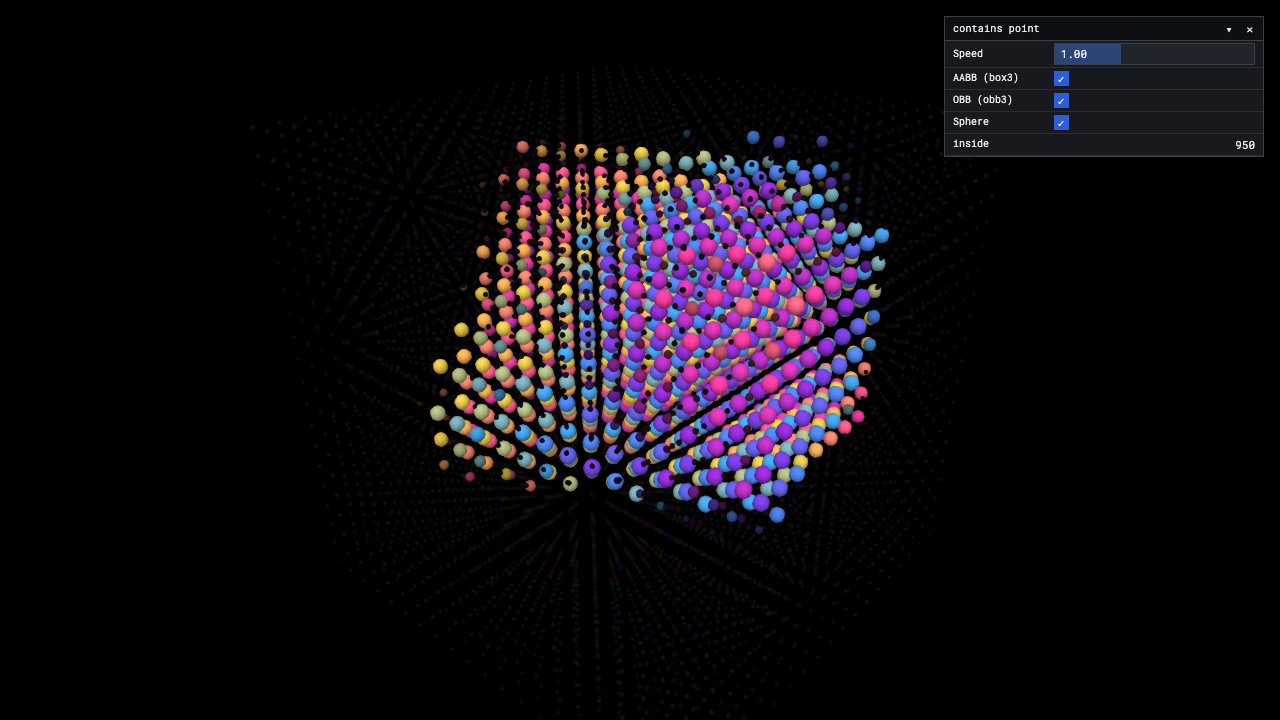
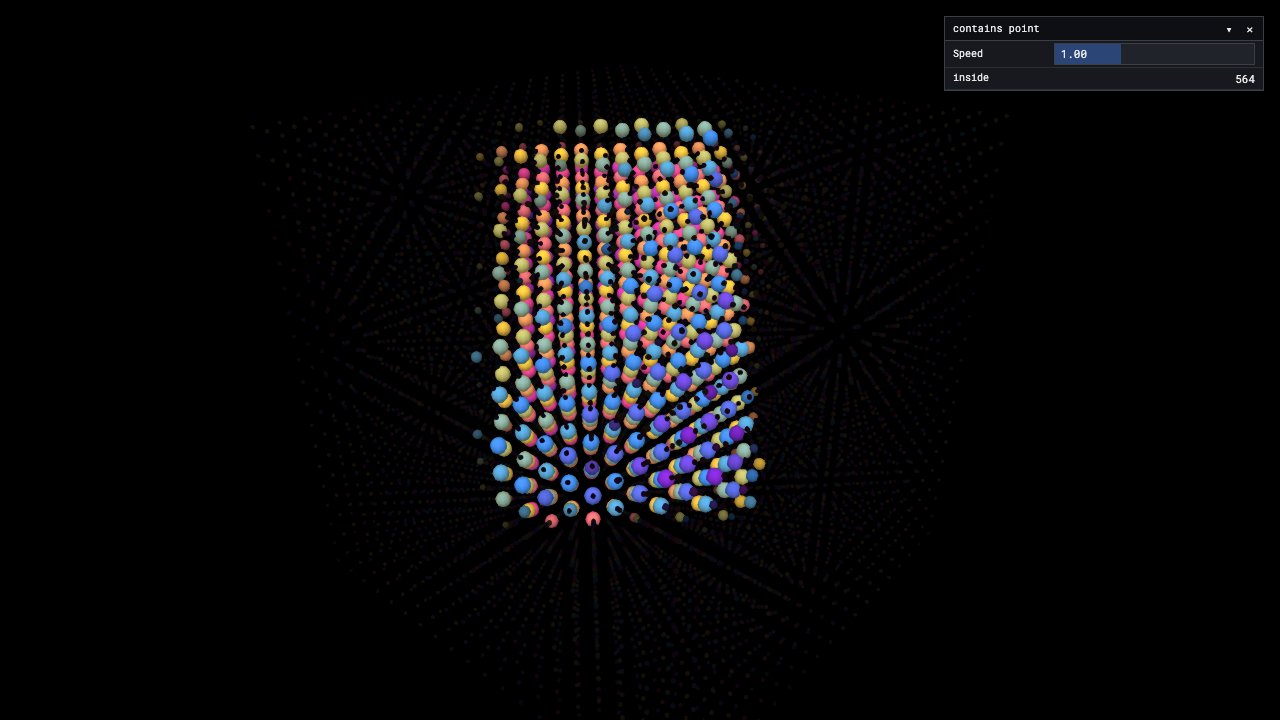
refactor(examples): focus contains-point on obb3 only

Changed region(s): [[0.3125, 0.1528, 0.7188, 0.7333], [0.7188, 0.0917, 1.0, 0.2444]]

diff --git a/examples/src/example-contains-point.ts b/examples/src/example-contains-point.ts
@@ -1,18 +1,17 @@
 import * as g from 'gpucat';
 import { d } from 'gpucat';
 import { mat3, quat, type Vec3 } from 'math';
-import { box3, type Box3, obb3, type OBB3, sphere, type Sphere } from 'math/shapes';
+import { obb3, type OBB3 } from 'math/shapes';
 import { createPanel } from './common/dash';
 import { rainbowRGB, time } from './common/rainbow';
 import { createRenderer } from './common/renderer';
 
-// A lattice of points, and three shapes from math/shapes drifting through it: an
-// axis-aligned box (box3), a spinning oriented box (obb3), and a pulsing sphere.
-// Every frame each point asks the shapes `containsPoint` — inside points glow the
-// flowing rainbow, outside points fade to a faint lattice. The solids are never
-// drawn; you see them purely as the region of lit points they carve out. The
-// oriented box is the one to watch: its containsPoint projects each point onto
-// the box's own rotated axes, so the glowing slab tumbles with it.
+// A lattice of points, and an oriented box (obb3) tumbling through it. Every
+// frame each point asks obb3.containsPoint — inside points glow the flowing
+// rainbow, outside points fade to a faint lattice. The box itself is never
+// drawn; you see it purely as the region of lit points it carves out.
+// obb3.containsPoint projects each point onto the box's own rotated axes and
+// compares against its half-extents, so the glowing slab tumbles with it.
 
 const N = 20; // points per axis
 const EXTENT = 3.0; // half-width of the lattice cube
@@ -111,24 +110,19 @@ points.count = COUNT;
 scene.add(points);
 scene.updateWorldMatrix();
 
-/* the three shapes (never drawn — only their containsPoint matters) */
+/* the oriented box (never drawn — only its containsPoint matters) */
 
-const aabb: Box3 = box3.create();
 const obb: OBB3 = obb3.create();
-obb.halfExtents = [1.9, 0.6, 1.9]; // a slab, so the rotation reads clearly
-const sph: Sphere = sphere.create();
+obb.halfExtents = [2.1, 0.8, 1.3]; // a distinct, non-cube box so the rotation reads clearly
 const spin = quat.create();
 const SPIN_AXIS: Vec3 = [0.32, 0.9, 0.28];
 
-const settings = { speed: 1, box: true, obb: true, sphere: true };
+const settings = { speed: 1 };
 
 /* ui */
 
 const panel = createPanel('contains point');
 panel.add(settings, 'speed', { min: 0, max: 3, step: 0.01, label: 'Speed' });
-panel.add(settings, 'box', { label: 'AABB (box3)' });
-panel.add(settings, 'obb', { label: 'OBB (obb3)' });
-panel.add(settings, 'sphere', { label: 'Sphere' });
 let insideCount = 0;
 panel.monitor(() => insideCount, { label: 'inside' });
 
@@ -148,25 +142,16 @@ function frame() {
     clock += dt * settings.speed;
     time.value = now / 1000;
 
-    // animate the shapes along their own drifting paths
-    box3.setFromCenterAndSize(aabb, [Math.sin(clock * 0.5) * 1.7, Math.cos(clock * 0.37) * 1.4, Math.cos(clock * 0.6) * 1.7], [2.6, 2.6, 2.6]);
-
-    obb.center = [Math.cos(clock * 0.43) * 1.7, Math.sin(clock * 0.6) * 1.3, Math.sin(clock * 0.31) * 1.7];
+    // drift the box through the lattice while tumbling it about a tilted axis
+    obb.center = [Math.cos(clock * 0.43) * 1.6, Math.sin(clock * 0.6) * 1.2, Math.sin(clock * 0.31) * 1.6];
     quat.setAxisAngle(spin, SPIN_AXIS, clock * 0.9);
     mat3.fromQuat(obb.rotation, spin);
 
-    sph.center = [Math.sin(clock * 0.66) * 1.9, Math.sin(clock * 0.5 + 1) * 1.5, Math.cos(clock * 0.48) * 1.9];
-    sph.radius = 1.3 + Math.sin(clock * 1.1) * 0.4;
-
-    // every lattice point asks the shapes whether it's inside
+    // every lattice point asks the box whether it's inside
     const k = Math.min(1, dt * 9); // glow-fade rate
     insideCount = 0;
     for (let i = 0; i < COUNT; i++) {
-        const p = positions[i];
-        const inside =
-            (settings.box && box3.containsPoint(aabb, p)) ||
-            (settings.obb && obb3.containsPoint(obb, p)) ||
-            (settings.sphere && sphere.containsPoint(sph, p));
+        const inside = obb3.containsPoint(obb, positions[i]);
         if (inside) insideCount++;
         intensity[i] += ((inside ? 1 : 0) - intensity[i]) * k;
     }
